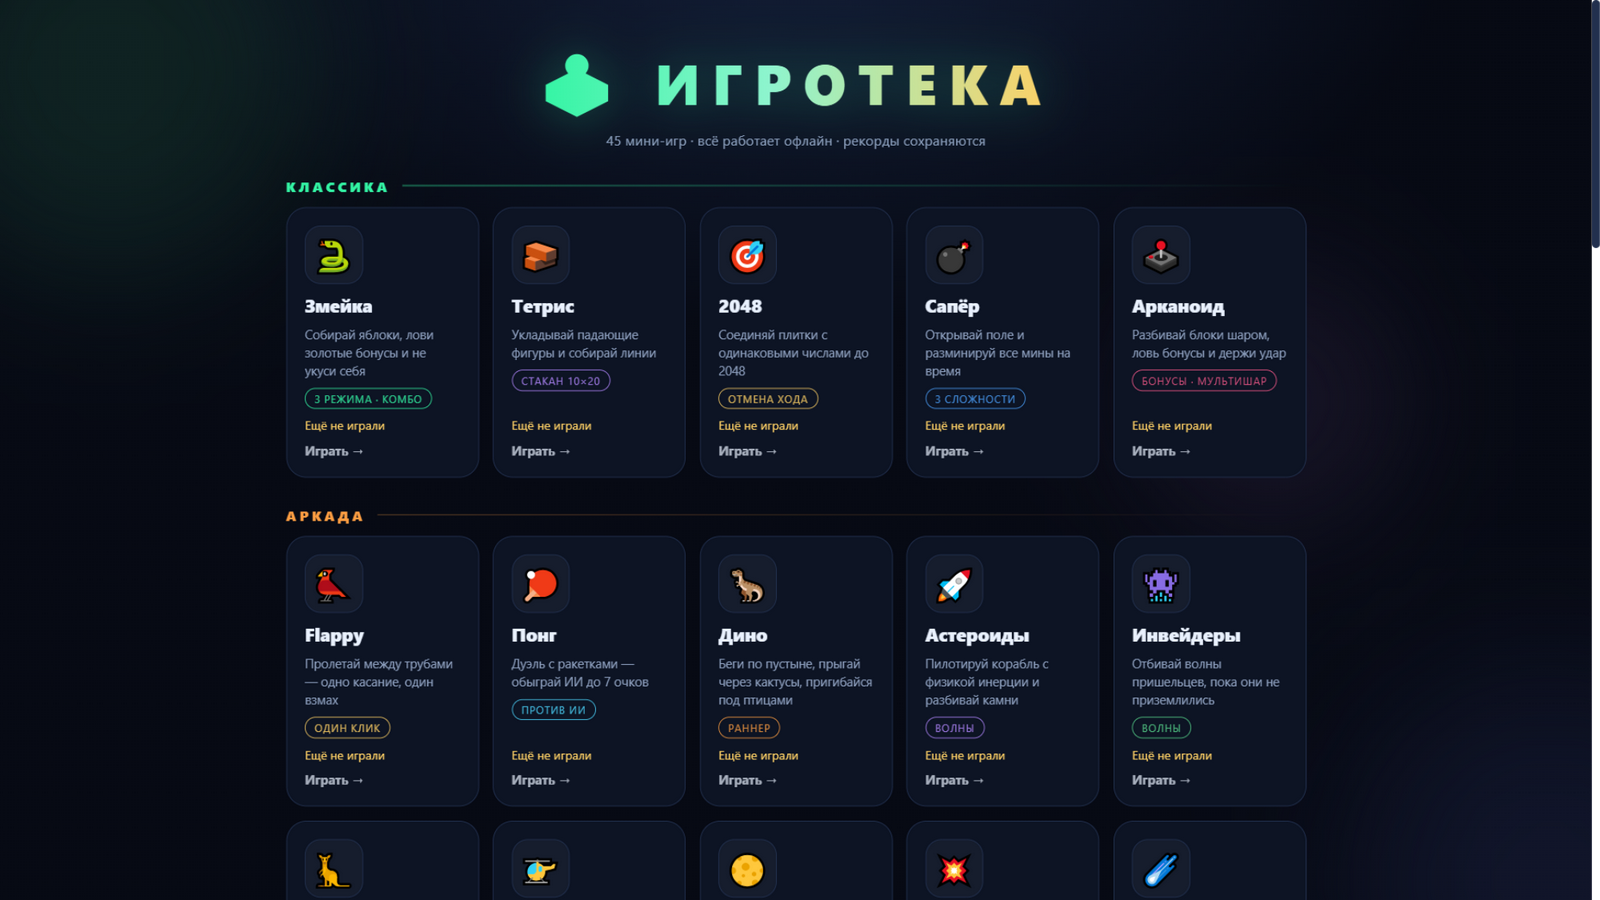
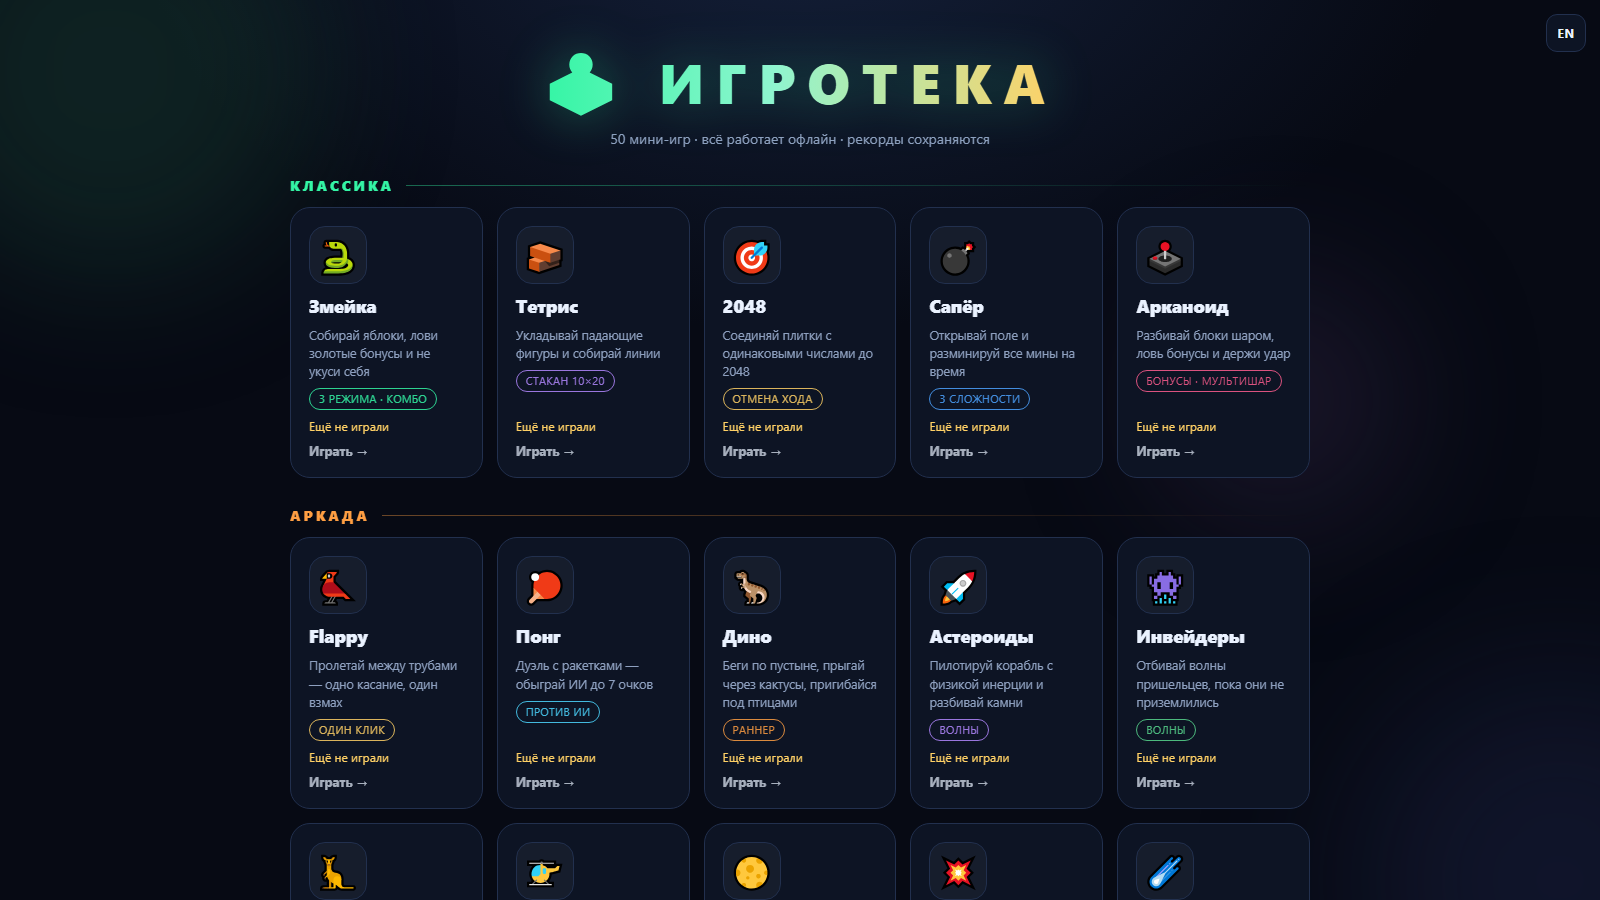
Bilingual README (RU + EN), fresh hub screenshots (50 games)

diff --git a/README.en.md b/README.en.md
@@ -1,0 +1,167 @@
+<div align="center">
+
+<img src="docs/screenshots/hub-en.png" alt="Igroteka — main page" width="100%">
+
+# 🕹 IGROTEKA
+
+**50 mini-games in pure JavaScript. Neon hub, two languages, records, sound — and zero dependencies.**
+
+[![Play online](https://img.shields.io/badge/%E2%96%B6_PLAY_ONLINE-xispx.github.io%2Figroteka-34f5a5?style=for-the-badge&labelColor=0d1117)](https://xispx.github.io/igroteka/)
+
+![games](https://img.shields.io/badge/mini--games-50-b388ff?style=flat-square&labelColor=0d1117)
+![lang](https://img.shields.io/badge/languages-RU%20%2F%20EN-4da3ff?style=flat-square&labelColor=0d1117)
+![tech](https://img.shields.io/badge/vanilla-JavaScript-f7df1e?style=flat-square&labelColor=0d1117)
+![deps](https://img.shields.io/badge/dependencies-0-34f5a5?style=flat-square&labelColor=0d1117)
+![offline](https://img.shields.io/badge/works-offline-4dd7ff?style=flat-square&labelColor=0d1117)
+![build](https://img.shields.io/badge/build-none-ff9f43?style=flat-square&labelColor=0d1117)
+![license](https://img.shields.io/badge/license-MIT-ff5d8f?style=flat-square&labelColor=0d1117)
+
+</div>
+
+**Language / Язык:** **[Русский](README.md)** · English
+
+---
+
+## 🎮 Play
+
+**Online** — open [**xispx.github.io/igroteka**](https://xispx.github.io/igroteka/) and pick a game.
+
+**Locally** — download the repository and double-click `index.html`: the project runs
+without a server and without any build step. If you prefer a local server:
+
+```bash
+python -m http.server 8000
+# → http://localhost:8000
+```
+
+## ✨ Highlights
+
+| | |
+| --- | --- |
+| 🗂 **Single hub** | All 50 games on one page: sections, descriptions, records right on the cards |
+| 🌐 **Two languages** | Russian and English — a switcher in every game, the choice is remembered |
+| 🌗 **Neon theme** | Dark background, glowing accents, smooth animations — custom design, no frameworks |
+| 🏆 **Records** | localStorage per game: points, moves, wins, time |
+| 🔊 **Sound** | Synthesized with the Web Audio API — not a single audio file, mute with `M` |
+| 📜 **Rules** | Every game has a rules screen with full controls description |
+| 📱 **Responsive** | Keyboard, mouse and swipes; auto-pause when the tab is hidden |
+
+## 🖼 Screenshots
+
+| Snake | Tetris | 2048 |
+| --- | --- | --- |
+| <img src="docs/screenshots/snake.png" width="280"> | <img src="docs/screenshots/tetris.png" width="280"> | <img src="docs/screenshots/2048.png" width="280"> |
+
+## 🎯 Game catalog
+
+### Classics
+
+| Game | Description | Features |
+| --- | --- | --- |
+| 🐍 **[Snake](games/zmeyka/index.html)** | Eat apples, catch golden bonuses — don't bite yourself | 3 modes · combo |
+| 🧱 **[Tetris](games/tetris/index.html)** | Stack falling pieces and clear lines | 10×20 well |
+| 🎯 **[2048](games/2048/index.html)** | Merge tiles with equal numbers up to 2048 | undo |
+| 💣 **[Minesweeper](games/saper/index.html)** | Clear the field and defuse every mine against the clock | 3 difficulties |
+| 🕹 **[Breakout](games/arkanoid/index.html)** | Smash bricks with the ball, catch power-ups, keep the streak | power-ups · multiball |
+
+### Arcade
+
+| Game | Description | Features |
+| --- | --- | --- |
+| 🐦 **[Flappy](games/flappy/index.html)** | Fly between the pipes — one tap, one flap | one tap |
+| 🏓 **[Pong](games/pong/index.html)** | Paddle duel — beat the AI to 7 points | vs AI |
+| 🦖 **[Dino](games/dino/index.html)** | Run the desert, jump cacti, duck under birds | runner |
+| 🚀 **[Asteroids](games/asteroids/index.html)** | Pilot a ship with inertia physics and smash rocks | waves |
+| 👾 **[Invaders](games/invaders/index.html)** | Fight off alien waves before they land | waves |
+| 🦘 **[Doodle](games/doodle/index.html)** | Bounce ever higher — don't fall down | jumps |
+| 🚁 **[Copter](games/copter/index.html)** | Hold thrust and guide the copter through the cave | one button |
+| 🌕 **[Lunar Lander](games/moon/index.html)** | Land the lunar module softly, straight, on the pad | physics |
+| 💥 **[Artillery](games/arty/index.html)** | Artillery duel vs AI: angle, power and shifting wind | duel |
+| ☄ **[Meteors](games/meteors/index.html)** | Meteor shower — dodge for as long as you can | dodging |
+| 🏎 **[Traffic](games/traffic/index.html)** | Weave through cars at ever-growing speed | 3 lanes |
+| 🟢 **[Orbs](games/orbs/index.html)** | Eat orbs smaller than you, avoid bigger ones — and don't melt | arcade · growth |
+| 💧 **[Bubbles](games/bubble/index.html)** | Shoot a bubble, match groups of three and pop them | shooter · groups |
+| 🏒 **[Air Hockey](games/hockey/index.html)** | Score seven past the AI — the paddle follows your finger | vs AI |
+
+### Logic & Board
+
+| Game | Description | Features |
+| --- | --- | --- |
+| 🔢 **[15 Puzzle](games/fifteen/index.html)** | Sort the tiles in order in as few moves as possible | puzzle |
+| ⭕ **[Tic-tac-toe](games/tictac/index.html)** | Beat the unbeatable AI — or hold it to a draw | vs AI |
+| ⚫ **[Reversi](games/reversi/index.html)** | Sandwich AI discs, flip them and take over the board | vs AI |
+| 🔵 **[Connect 4](games/connect4/index.html)** | Drop discs into columns and line up four before the AI | minimax AI |
+| ⚫ **[Gomoku](games/gomoku/index.html)** | Five in a row on a 15×15 board against a cunning AI | 15×15 |
+| 🥢 **[Nim](games/nim/index.html)** | Take sticks from rows. Whoever takes the last one wins | perfect AI |
+| 🚢 **[Battleship](games/sea/index.html)** | Sink the AI fleet before it sinks yours | classic |
+| 🃏 **[Blackjack](games/bj/index.html)** | Blackjack vs the dealer: get closer to 21 without busting | cards · bank |
+| 🫘 **[Mancala](games/mancala/index.html)** | Sow stones around the board and collect the most in your store | ancient game |
+| 🔗 **[Dots & Boxes](games/dots/index.html)** | Draw lines, close boxes — a point and an extra turn | tactics |
+| 🔟 **[Sudoku](games/sudoku/index.html)** | Classic 9×9 with a generator and a unique solution | timed |
+| 🗼 **[Tower of Hanoi](games/hanoy/index.html)** | Move the tower to the right rod in as few moves as possible | puzzle |
+| 💡 **[Lights Out](games/lights/index.html)** | Each click flips a plus-shape. Turn every light off | puzzle |
+| 💎 **[Match 3](games/match3/index.html)** | Swap crystals, line them up and catch cascades | 90 seconds |
+| 📦 **[Sokoban](games/sokoban/index.html)** | Push crates onto targets: 6 levels, undo | 6 levels |
+| 🌈 **[Flow](games/flow/index.html)** | Connect pairs of colored dots, filling the whole board | 6×6 · 12 levels |
+| 🔐 **[Codebreaker](games/code/index.html)** | Crack the 4-color code in as few tries as possible | logic |
+
+### Words
+
+| Game | Description | Features |
+| --- | --- | --- |
+| 🎯 **[Hangman](games/hangman/index.html)** | Guess the word letter by letter before attempts run out | 7 tries |
+| 🔤 **[Wordly](games/wordle/index.html)** | Guess the 5-letter word in 6 tries — like Wordle | 6 tries |
+| 🐄 **[Bulls & Cows](games/bulls/index.html)** | Guess 4 digits: bull — right place, cow — present | number logic |
+| ⌨ **[Typing](games/typing/index.html)** | Type phrases fast and clean — characters per minute | speed |
+
+### Reaction & Skills
+
+| Game | Description | Features |
+| --- | --- | --- |
+| 🃏 **[Memory](games/pairs/index.html)** | Find every matching pair, memorizing positions | memory |
+| 🔨 **[Whack-a-Mole](games/moles/index.html)** | 30 seconds to whack as many moles as you can | reaction |
+| 🎵 **[Simon](games/simon/index.html)** | Memorize and repeat the growing note sequence | memory · sound |
+| ⚡ **[Reaction](games/reaction/index.html)** | 5 rounds: as soon as the background turns green — click | milliseconds |
+| 🎯 **[Aim Trainer](games/aim/index.html)** | 20 targets one by one — hit them all in minimal time | precision |
+| 🥁 **[Rhythm](games/rhythm/index.html)** | Notes fall down four lanes — catch them on the D F J K line | 4 lanes |
+| 🔢 **[Number Span](games/span/index.html)** | Memorize the number and type it — longer every level | number memory |
+| 🎨 **[Stroop](games/stroop/index.html)** | Color or meaning? Your brain gets confused — beat it in 45 seconds | cognitive |
+| 🧮 **[Math Sprint](games/math/index.html)** | Math sprint: the longer the streak, the more points | 60 seconds |
+| 🏗 **[Stack Tower](games/stack/index.html)** | Drop blocks precisely on each other — height wins | one button |
+
+## 🧩 Architecture
+
+```
+index.html            — main page (5 sections, 50 cards)
+css/common.css        — shared theme: header, HUD, overlays, buttons
+css/hub.css           — main page styles
+js/audio.js           — sound engine on the Web Audio API
+js/rules.js           — «Rules» button and overlay
+js/hub.js             — records on the main-page cards
+js/shell.js           — shell for newer games: header, HUD, records, pause, sound
+js/i18n.js            — RU/EN switcher and live UI translation
+js/lang-en.js         — English dictionary (generated from the source strings)
+games/<name>/         — game folder: index.html + css/ + js/game.js
+```
+
+Russian is the source language of the UI: all strings in the code are Russian, and
+`js/lang-en.js` holds their English counterparts. Translation is applied to the DOM
+automatically — including overlays games create at runtime. The switcher is the EN/РУ
+button in the header of every game. In the word games (Hangman, Wordly, Typing) the
+word lists switch together with the language.
+
+The first 15 games are self-contained (their own markup and styles), the rest are built
+on a shared `Shell.init({...})` shell: the config sets the title, stats and hooks, and
+the game implements only the logic. New canvas — `Shell.canvas()`, records —
+`Shell.tryRecord()`.
+
+## 🛠 Technologies
+
+- **HTML5 Canvas** — all graphics are drawn in code, no sprites or images
+- **Web Audio API** — sounds are synthesized on the fly
+- **localStorage** — records and settings
+- Zero dependencies, zero build, zero network requests
+
+## 📄 License
+
+[MIT](LICENSE) — play, study and take it with you.

diff --git a/README.md b/README.md
@@ -18,6 +18,8 @@
 
 </div>
 
+**Язык / Language:** Русский · **[English](README.en.md)**
+
 ---
 
 ## 🎮 Играть
